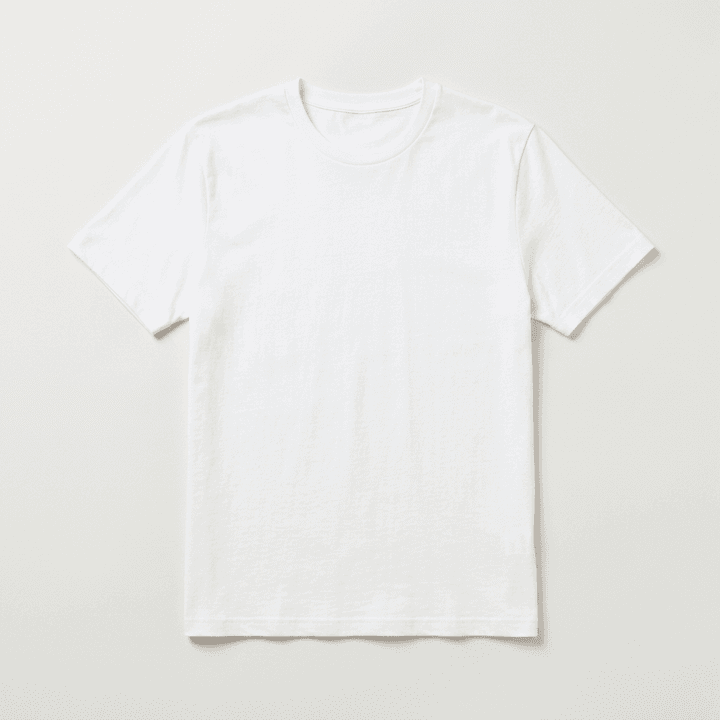
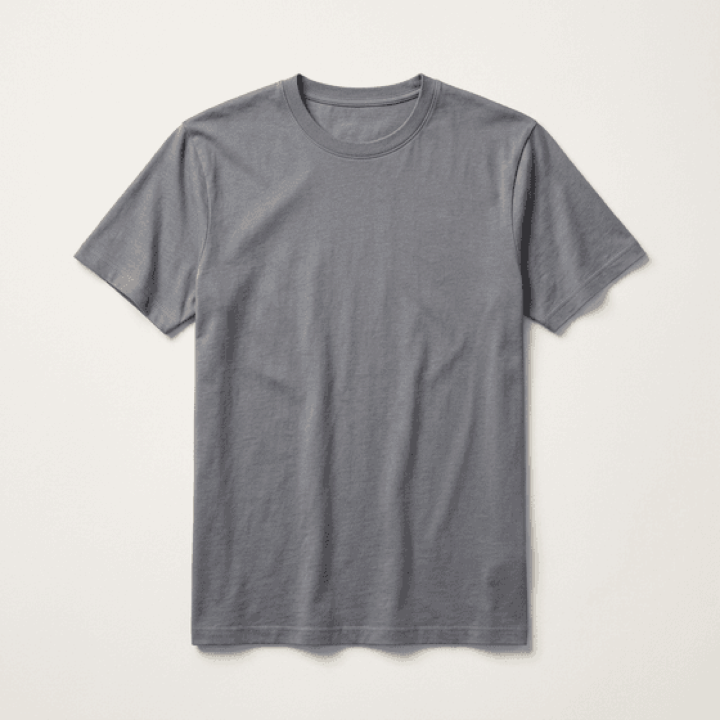
v0.2.310.1 — la prenda propuesta que no salía en el render
El paso 4 de hombre proponía camiseta blanca y el try-on enseñaba una gris.
prop-tee de hombre pasa a ser la playera gris que ya usa el hero. La versión
de mujer ya coincidía.

diff --git a/CHANGELOG.md b/CHANGELOG.md
@@ -2,6 +2,20 @@
 
 Cambios notables de stailist. Formato basado en [Keep a Changelog](https://keepachangelog.com/es/); versiones `MAJOR.MINOR.PATCH.MICRO`.
 
+## [0.2.310.1] - 2026-09-08 — la prenda propuesta que no salía en el render
+
+Roberto, sobre el paso 4 de hombre: la tarjeta "te propongo" listaba una
+camiseta BLANCA y el try-on de al lado enseña al hombre con una camiseta GRIS
+bajo el saco. La landing promete "los ves puestos en ti" y ahí mismo se
+contradecía. `public/landing/h/prop-tee.png` pasa a ser la playera gris, que
+ya existía en el hero (`hero-p2.png`, la misma prenda del mismo look). Las
+otras tres (jeans oscuros, saco marino, loafers café) ya coincidían, y la
+versión de mujer estaba bien y no se toca.
+
+El desajuste es viejo, no lo trajo el rediseño: sólo se volvió visible al poner
+el "antes" en camiseta blanca (v0.2.308.2), porque el ojo ya no tenía la
+sobrecamisa gris distrayendo.
+
 ## [0.2.310.0] - 2026-09-08 — tres secciones en negro: la landing agarra ritmo
 
 Roberto, mirando la página entera: "todo es del mismo tono, te pierdes cuando
